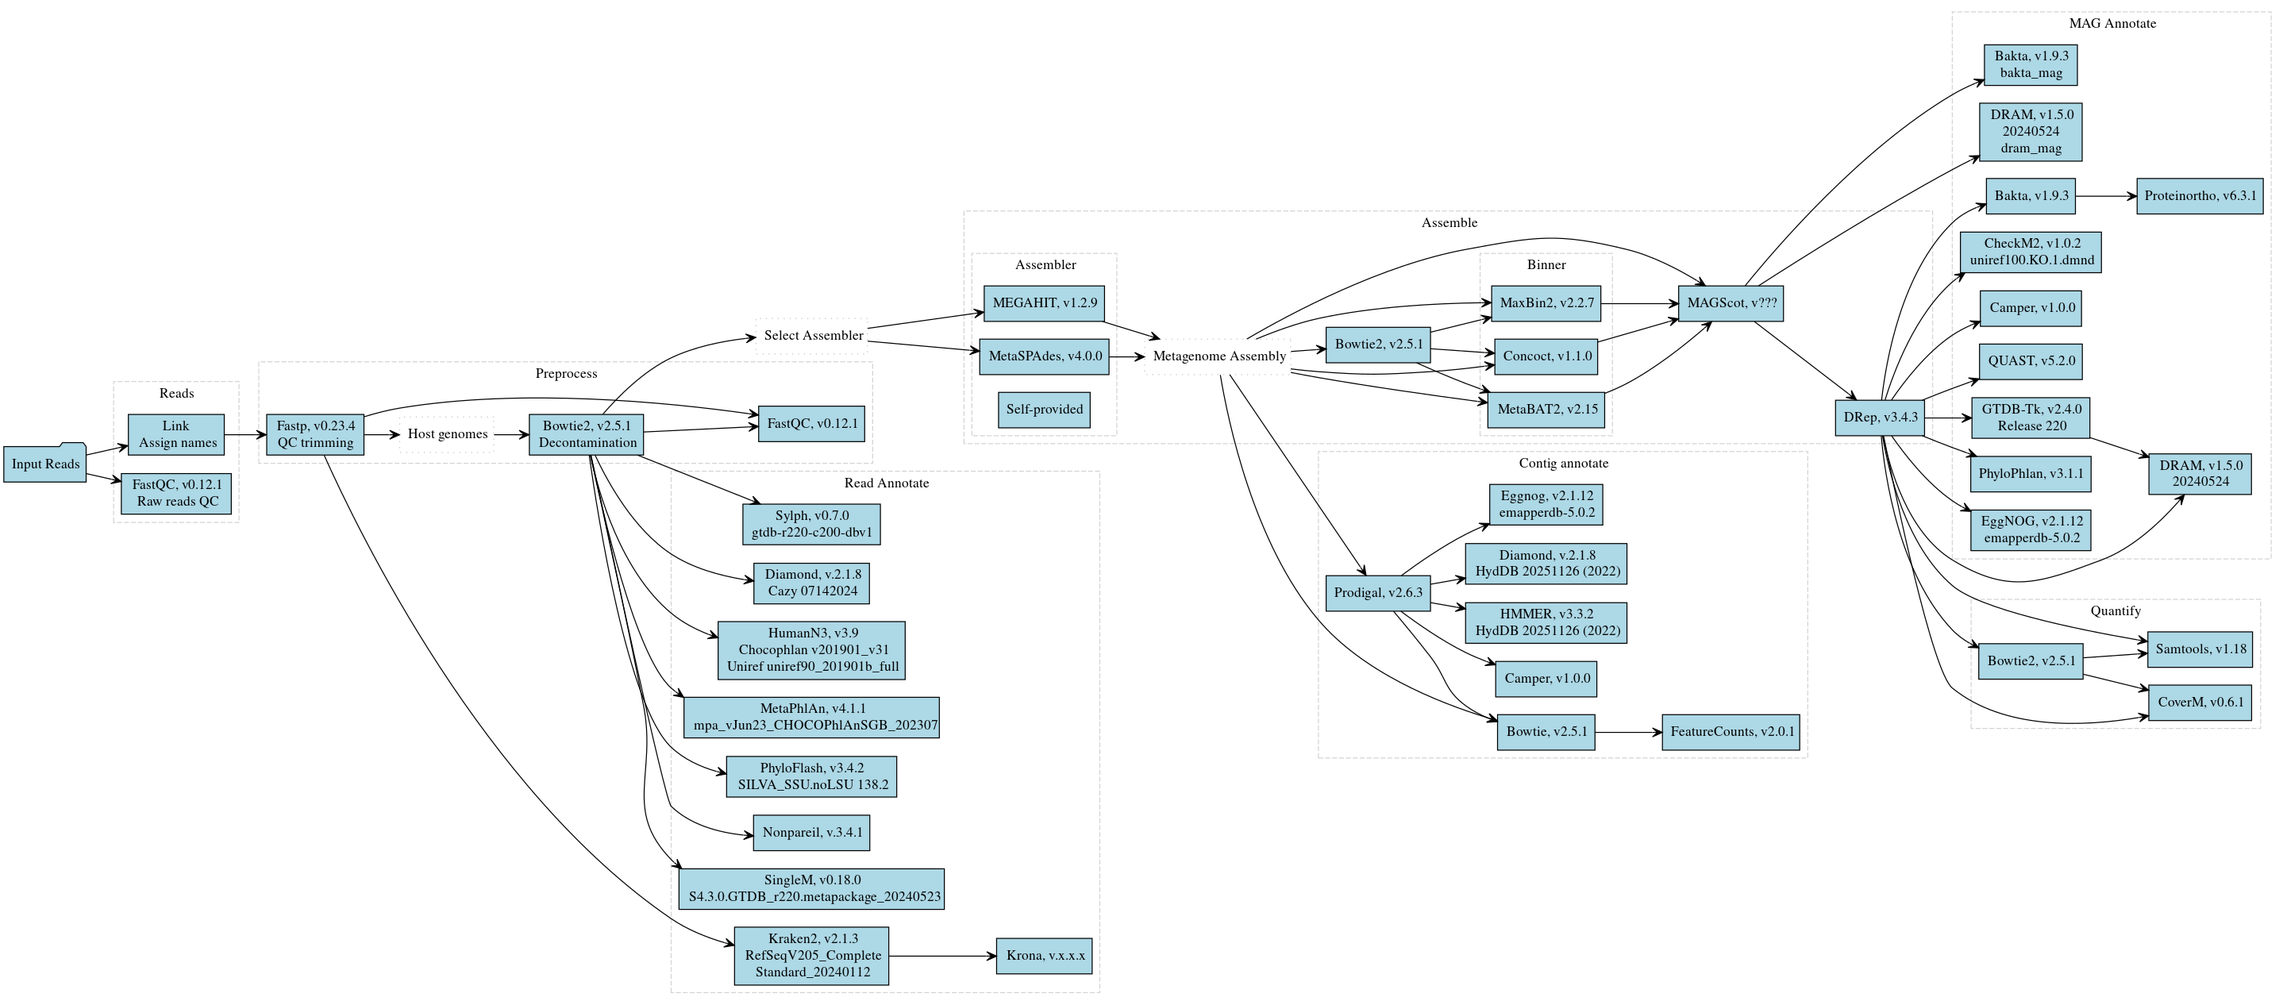
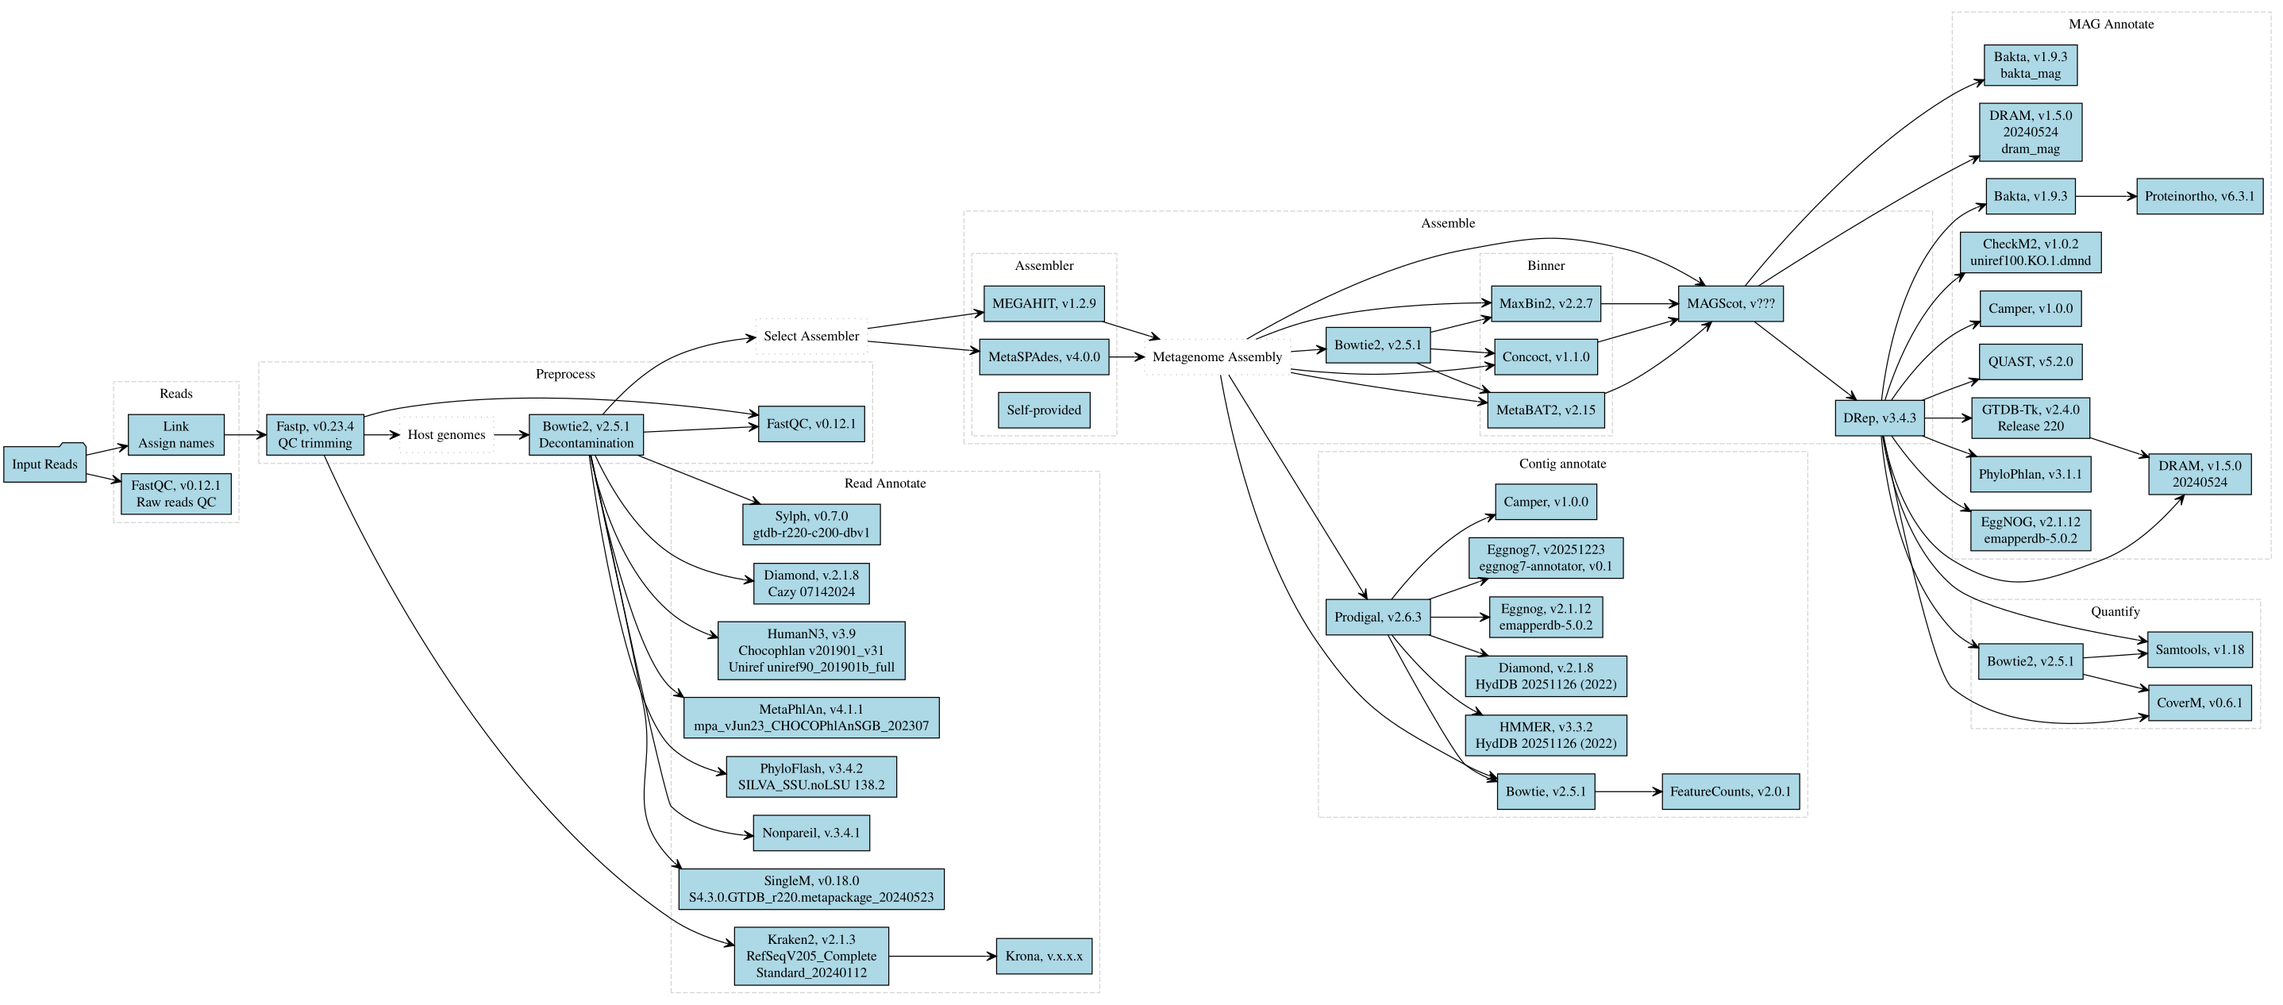
flowchart updated with eggnog7

diff --git a/pipeline_diagram.html b/pipeline_diagram.html
@@ -46,7 +46,7 @@
 </g>
 <g id="clust8" class="cluster">
 <title>cluster_contig_annotate</title>
-<polygon fill="none" stroke="#d3d3d3" stroke-dasharray="5,2" points="1333.7794,-246 1333.7794,-557 1830.2388,-557 1830.2388,-246 1333.7794,-246"/>
+<polygon fill="none" stroke="#d3d3d3" stroke-dasharray="5,2" points="1333.7794,-186 1333.7794,-557 1830.2388,-557 1830.2388,-186 1333.7794,-186"/>
 <text text-anchor="middle" x="1582.0091" y="-540.4" font-family="Times,serif" font-size="14.00" fill="#000000">Contig annotate</text>
 </g>
 <g id="clust9" class="cluster">
@@ -210,7 +210,7 @@
 <polygon fill="#000000" stroke="#000000" points="760.9946,-425.5802 751.748,-431.4751 756.0469,-426.3012 751.0991,-427.0222 751.0991,-427.0222 751.0991,-427.0222 756.0469,-426.3012 750.4502,-422.5692 760.9946,-425.5802 760.9946,-425.5802"/>
 </g>
 <!-- ass_assembler_rep -->
-<g id="node47" class="node">
+<g id="node48" class="node">
 <title>ass_assembler_rep</title>
 <polygon fill="none" stroke="#c0c0c0" stroke-dasharray="1,5" points="876.1262,-692 762.9758,-692 762.9758,-656 876.1262,-656 876.1262,-692"/>
 <text text-anchor="middle" x="819.551" y="-669.8" font-family="Times,serif" font-size="14.00" fill="#000000">Select Assembler</text>
@@ -242,7 +242,7 @@
 <polygon fill="#000000" stroke="#000000" points="741.116,-55.9204 732.6591,-62.9012 736.2934,-57.2406 731.4709,-58.5609 731.4709,-58.5609 731.4709,-58.5609 736.2934,-57.2406 730.2826,-54.2206 741.116,-55.9204 741.116,-55.9204"/>
 </g>
 <!-- pre_host -->
-<g id="node46" class="node">
+<g id="node47" class="node">
 <title>pre_host</title>
 <polygon fill="none" stroke="#c0c0c0" stroke-dasharray="1,5" points="496.9293,-592 401.5161,-592 401.5161,-556 496.9293,-556 496.9293,-592"/>
 <text text-anchor="middle" x="449.2227" y="-569.8" font-family="Times,serif" font-size="14.00" fill="#000000">Host genomes</text>
@@ -426,7 +426,7 @@
 <polygon fill="#000000" stroke="#000000" points="2001.5807,-552.147 1993.6347,-559.7043 1996.8627,-553.8026 1992.1447,-555.4582 1992.1447,-555.4582 1992.1447,-555.4582 1996.8627,-553.8026 1990.6547,-551.212 2001.5807,-552.147 2001.5807,-552.147"/>
 </g>
 <!-- quantify_bowtie2 -->
-<g id="node43" class="node">
+<g id="node44" class="node">
 <title>quantify_bowtie2</title>
 <polygon fill="#add8e6" stroke="#000000" points="2109.6016,-362 2003.7218,-362 2003.7218,-326 2109.6016,-326 2109.6016,-362"/>
 <text text-anchor="middle" x="2056.6617" y="-339.8" font-family="Times,serif" font-size="14.00" fill="#000000">Bowtie2, v2.5.1</text>
@@ -438,7 +438,7 @@
 <polygon fill="#000000" stroke="#000000" points="2003.7342,-357.7502 1996.8782,-366.3086 1999.2821,-360.0259 1994.83,-362.3017 1994.83,-362.3017 1994.83,-362.3017 1999.2821,-360.0259 1992.7818,-358.2948 2003.7342,-357.7502 2003.7342,-357.7502"/>
 </g>
 <!-- quantify_coverm -->
-<g id="node44" class="node">
+<g id="node45" class="node">
 <title>quantify_coverm</title>
 <polygon fill="#add8e6" stroke="#000000" points="2280.5789,-320 2176.2649,-320 2176.2649,-284 2280.5789,-284 2280.5789,-320"/>
 <text text-anchor="middle" x="2228.4219" y="-297.8" font-family="Times,serif" font-size="14.00" fill="#000000">CoverM, v0.6.1</text>
@@ -450,7 +450,7 @@
 <polygon fill="#000000" stroke="#000000" points="2176.1074,-288.894 2165.4692,-291.5544 2171.1863,-288.0096 2166.2651,-287.1253 2166.2651,-287.1253 2166.2651,-287.1253 2171.1863,-288.0096 2167.061,-282.6962 2176.1074,-288.894 2176.1074,-288.894"/>
 </g>
 <!-- quantify_samtools -->
-<g id="node45" class="node">
+<g id="node46" class="node">
 <title>quantify_samtools</title>
 <polygon fill="#add8e6" stroke="#000000" points="2281.5362,-374 2175.3076,-374 2175.3076,-338 2281.5362,-338 2281.5362,-374"/>
 <text text-anchor="middle" x="2228.4219" y="-351.8" font-family="Times,serif" font-size="14.00" fill="#000000">Samtools, v1.18</text>
@@ -507,7 +507,7 @@
 <text text-anchor="middle" x="1055.6559" y="-702.8" font-family="Times,serif" font-size="14.00" fill="#000000">MEGAHIT, v1.2.9</text>
 </g>
 <!-- ass_assembly -->
-<g id="node48" class="node">
+<g id="node49" class="node">
 <title>ass_assembly</title>
 <polygon fill="none" stroke="#c0c0c0" stroke-dasharray="1,5" points="1305.5679,-671 1157.4151,-671 1157.4151,-635 1305.5679,-635 1305.5679,-671"/>
 <text text-anchor="middle" x="1231.4915" y="-648.8" font-family="Times,serif" font-size="14.00" fill="#000000">Metagenome Assembly</text>
@@ -563,83 +563,96 @@
 <!-- contig_annotate_prodigal -->
 <g id="node36" class="node">
 <title>contig_annotate_prodigal</title>
-<polygon fill="#add8e6" stroke="#000000" points="1447.4388,-431 1341.559,-431 1341.559,-395 1447.4388,-395 1447.4388,-431"/>
-<text text-anchor="middle" x="1394.4989" y="-408.8" font-family="Times,serif" font-size="14.00" fill="#000000">Prodigal, v2.6.3</text>
+<polygon fill="#add8e6" stroke="#000000" points="1447.4388,-407 1341.559,-407 1341.559,-371 1447.4388,-371 1447.4388,-407"/>
+<text text-anchor="middle" x="1394.4989" y="-384.8" font-family="Times,serif" font-size="14.00" fill="#000000">Prodigal, v2.6.3</text>
 </g>
 <!-- contig_annotate_eggnog -->
 <g id="node37" class="node">
 <title>contig_annotate_eggnog</title>
-<polygon fill="#add8e6" stroke="#000000" points="1622.2601,-523.6019 1507.5477,-523.6019 1507.5477,-482.3981 1622.2601,-482.3981 1622.2601,-523.6019"/>
-<text text-anchor="middle" x="1564.9039" y="-507.2" font-family="Times,serif" font-size="14.00" fill="#000000">Eggnog, v2.1.12 </text>
-<text text-anchor="middle" x="1564.9039" y="-490.4" font-family="Times,serif" font-size="14.00" fill="#000000"> emapperdb&#45;5.0.2</text>
+<polygon fill="#add8e6" stroke="#000000" points="1622.2601,-409.6019 1507.5477,-409.6019 1507.5477,-368.3981 1622.2601,-368.3981 1622.2601,-409.6019"/>
+<text text-anchor="middle" x="1564.9039" y="-393.2" font-family="Times,serif" font-size="14.00" fill="#000000">Eggnog, v2.1.12 </text>
+<text text-anchor="middle" x="1564.9039" y="-376.4" font-family="Times,serif" font-size="14.00" fill="#000000"> emapperdb&#45;5.0.2</text>
 </g>
 <!-- contig_annotate_prodigal&#45;&gt;contig_annotate_eggnog -->
 <g id="edge50" class="edge">
 <title>contig_annotate_prodigal&#45;&gt;contig_annotate_eggnog</title>
-<path fill="none" stroke="#000000" d="M1417.9966,-431.2104C1435.3387,-444.0613 1459.8826,-461.0491 1483.2184,-473 1488.0088,-475.4533 1493.0479,-477.8048 1498.1736,-480.0353"/>
-<polygon fill="#000000" stroke="#000000" points="1507.4584,-483.9153 1496.4965,-484.2115 1502.845,-481.9874 1498.2317,-480.0595 1498.2317,-480.0595 1498.2317,-480.0595 1502.845,-481.9874 1499.9668,-475.9074 1507.4584,-483.9153 1507.4584,-483.9153"/>
+<path fill="none" stroke="#000000" d="M1447.482,-389C1463.2592,-389 1480.7648,-389 1497.3392,-389"/>
+<polygon fill="#000000" stroke="#000000" points="1507.515,-389 1497.5151,-393.5001 1502.515,-389 1497.515,-389.0001 1497.515,-389.0001 1497.515,-389.0001 1502.515,-389 1497.515,-384.5001 1507.515,-389 1507.515,-389"/>
+</g>
+<!-- contig_annotate_eggnog7 -->
+<g id="node38" class="node">
+<title>contig_annotate_eggnog7</title>
+<polygon fill="#add8e6" stroke="#000000" points="1643.1503,-469.6019 1486.6575,-469.6019 1486.6575,-428.3981 1643.1503,-428.3981 1643.1503,-469.6019"/>
+<text text-anchor="middle" x="1564.9039" y="-453.2" font-family="Times,serif" font-size="14.00" fill="#000000">Eggnog7, v20251223 </text>
+<text text-anchor="middle" x="1564.9039" y="-436.4" font-family="Times,serif" font-size="14.00" fill="#000000"> eggnog7&#45;annotator, v0.1</text>
+</g>
+<!-- contig_annotate_prodigal&#45;&gt;contig_annotate_eggnog7 -->
+<g id="edge51" class="edge">
+<title>contig_annotate_prodigal&#45;&gt;contig_annotate_eggnog7</title>
+<path fill="none" stroke="#000000" d="M1445.626,-407.002C1461.6065,-412.6287 1479.5017,-418.9297 1496.4726,-424.9052"/>
+<polygon fill="#000000" stroke="#000000" points="1506.3366,-428.3783 1495.4096,-429.3016 1501.6204,-426.7177 1496.9042,-425.0571 1496.9042,-425.0571 1496.9042,-425.0571 1501.6204,-426.7177 1498.3987,-420.8125 1506.3366,-428.3783 1506.3366,-428.3783"/>
 </g>
 <!-- contig_annotate_bowtie -->
-<g id="node38" class="node">
+<g id="node39" class="node">
 <title>contig_annotate_bowtie</title>
-<polygon fill="#add8e6" stroke="#000000" points="1614.3439,-290 1515.4639,-290 1515.4639,-254 1614.3439,-254 1614.3439,-290"/>
-<text text-anchor="middle" x="1564.9039" y="-267.8" font-family="Times,serif" font-size="14.00" fill="#000000">Bowtie, v2.5.1</text>
+<polygon fill="#add8e6" stroke="#000000" points="1614.3439,-230 1515.4639,-230 1515.4639,-194 1614.3439,-194 1614.3439,-230"/>
+<text text-anchor="middle" x="1564.9039" y="-207.8" font-family="Times,serif" font-size="14.00" fill="#000000">Bowtie, v2.5.1</text>
 </g>
 <!-- contig_annotate_prodigal&#45;&gt;contig_annotate_bowtie -->
-<g id="edge51" class="edge">
+<g id="edge52" class="edge">
 <title>contig_annotate_prodigal&#45;&gt;contig_annotate_bowtie</title>
-<path fill="none" stroke="#000000" d="M1410.0472,-394.7722C1420.7205,-382.1041 1435.0928,-364.7358 1447.2184,-349 1463.9324,-327.3097 1461.1407,-315.1989 1483.2184,-299 1490.0562,-293.983 1497.8793,-289.8632 1505.9143,-286.4895"/>
-<polygon fill="#000000" stroke="#000000" points="1515.3976,-282.8627 1507.6648,-290.638 1510.7275,-284.6488 1506.0573,-286.4349 1506.0573,-286.4349 1506.0573,-286.4349 1510.7275,-284.6488 1504.4499,-282.2317 1515.3976,-282.8627 1515.3976,-282.8627"/>
+<path fill="none" stroke="#000000" d="M1404.3012,-370.8366C1424.8604,-332.9872 1471.5538,-248.3933 1483.2184,-239 1489.9074,-233.6134 1497.7126,-229.2845 1505.7951,-225.8098"/>
+<polygon fill="#000000" stroke="#000000" points="1515.3603,-222.111 1507.6564,-229.9148 1510.6968,-223.9144 1506.0334,-225.7177 1506.0334,-225.7177 1506.0334,-225.7177 1510.6968,-223.9144 1504.4103,-221.5206 1515.3603,-222.111 1515.3603,-222.111"/>
 </g>
 <!-- contig_annotate_camper -->
-<g id="node39" class="node">
+<g id="node40" class="node">
 <title>contig_annotate_camper</title>
-<polygon fill="#add8e6" stroke="#000000" points="1616.2214,-344 1513.5864,-344 1513.5864,-308 1616.2214,-308 1616.2214,-344"/>
-<text text-anchor="middle" x="1564.9039" y="-321.8" font-family="Times,serif" font-size="14.00" fill="#000000">Camper, v1.0.0</text>
+<polygon fill="#add8e6" stroke="#000000" points="1616.2214,-524 1513.5864,-524 1513.5864,-488 1616.2214,-488 1616.2214,-524"/>
+<text text-anchor="middle" x="1564.9039" y="-501.8" font-family="Times,serif" font-size="14.00" fill="#000000">Camper, v1.0.0</text>
 </g>
 <!-- contig_annotate_prodigal&#45;&gt;contig_annotate_camper -->
-<g id="edge52" class="edge">
+<g id="edge53" class="edge">
 <title>contig_annotate_prodigal&#45;&gt;contig_annotate_camper</title>
-<path fill="none" stroke="#000000" d="M1417.5134,-394.8326C1434.8178,-381.8359 1459.5232,-364.6494 1483.2184,-353 1489.7611,-349.7834 1496.7786,-346.8118 1503.8519,-344.1087"/>
-<polygon fill="#000000" stroke="#000000" points="1513.4926,-340.5913 1505.6407,-348.2463 1508.7955,-342.3051 1504.0983,-344.0189 1504.0983,-344.0189 1504.0983,-344.0189 1508.7955,-342.3051 1502.556,-339.7914 1513.4926,-340.5913 1513.4926,-340.5913"/>
+<path fill="none" stroke="#000000" d="M1407.927,-407.0591C1423.8231,-427.2561 1452.0949,-459.6646 1483.2184,-479 1489.5858,-482.9557 1496.596,-486.3981 1503.7524,-489.3765"/>
+<polygon fill="#000000" stroke="#000000" points="1513.5549,-493.1549 1502.6056,-493.7572 1508.8895,-491.3566 1504.2241,-489.5583 1504.2241,-489.5583 1504.2241,-489.5583 1508.8895,-491.3566 1505.8426,-485.3594 1513.5549,-493.1549 1513.5549,-493.1549"/>
 </g>
 <!-- contig_annotate_hmmer -->
-<g id="node40" class="node">
+<g id="node41" class="node">
 <title>contig_annotate_hmmer</title>
-<polygon fill="#add8e6" stroke="#000000" points="1646.7753,-403.6019 1483.0325,-403.6019 1483.0325,-362.3981 1646.7753,-362.3981 1646.7753,-403.6019"/>
-<text text-anchor="middle" x="1564.9039" y="-387.2" font-family="Times,serif" font-size="14.00" fill="#000000">HMMER, v3.3.2 </text>
-<text text-anchor="middle" x="1564.9039" y="-370.4" font-family="Times,serif" font-size="14.00" fill="#000000"> HydDB 20251126 (2022)</text>
+<polygon fill="#add8e6" stroke="#000000" points="1646.7753,-289.6019 1483.0325,-289.6019 1483.0325,-248.3981 1646.7753,-248.3981 1646.7753,-289.6019"/>
+<text text-anchor="middle" x="1564.9039" y="-273.2" font-family="Times,serif" font-size="14.00" fill="#000000">HMMER, v3.3.2 </text>
+<text text-anchor="middle" x="1564.9039" y="-256.4" font-family="Times,serif" font-size="14.00" fill="#000000"> HydDB 20251126 (2022)</text>
 </g>
 <!-- contig_annotate_prodigal&#45;&gt;contig_annotate_hmmer -->
-<g id="edge53" class="edge">
+<g id="edge54" class="edge">
 <title>contig_annotate_prodigal&#45;&gt;contig_annotate_hmmer</title>
-<path fill="none" stroke="#000000" d="M1447.482,-403.6723C1455.7164,-402.2226 1464.4215,-400.69 1473.2194,-399.1412"/>
-<polygon fill="#000000" stroke="#000000" points="1483.1718,-397.389 1474.1035,-403.5548 1478.2475,-398.256 1473.3232,-399.123 1473.3232,-399.123 1473.3232,-399.123 1478.2475,-398.256 1472.543,-394.6911 1483.1718,-397.389 1483.1718,-397.389"/>
+<path fill="none" stroke="#000000" d="M1408.3321,-370.7636C1424.3859,-350.7105 1452.6,-318.7235 1483.2184,-299 1485.8022,-297.3356 1488.4912,-295.7463 1491.2523,-294.2306"/>
+<polygon fill="#000000" stroke="#000000" points="1500.2757,-289.6389 1493.4041,-298.1848 1495.8194,-291.9066 1491.3632,-294.1742 1491.3632,-294.1742 1491.3632,-294.1742 1495.8194,-291.9066 1489.3223,-290.1636 1500.2757,-289.6389 1500.2757,-289.6389"/>
 </g>
 <!-- contig_annotate_diamond -->
-<g id="node41" class="node">
+<g id="node42" class="node">
 <title>contig_annotate_diamond</title>
-<polygon fill="#add8e6" stroke="#000000" points="1646.7753,-463.6019 1483.0325,-463.6019 1483.0325,-422.3981 1646.7753,-422.3981 1646.7753,-463.6019"/>
-<text text-anchor="middle" x="1564.9039" y="-447.2" font-family="Times,serif" font-size="14.00" fill="#000000">Diamond, v.2.1.8 </text>
-<text text-anchor="middle" x="1564.9039" y="-430.4" font-family="Times,serif" font-size="14.00" fill="#000000"> HydDB 20251126 (2022)</text>
+<polygon fill="#add8e6" stroke="#000000" points="1646.7753,-349.6019 1483.0325,-349.6019 1483.0325,-308.3981 1646.7753,-308.3981 1646.7753,-349.6019"/>
+<text text-anchor="middle" x="1564.9039" y="-333.2" font-family="Times,serif" font-size="14.00" fill="#000000">Diamond, v.2.1.8 </text>
+<text text-anchor="middle" x="1564.9039" y="-316.4" font-family="Times,serif" font-size="14.00" fill="#000000"> HydDB 20251126 (2022)</text>
 </g>
 <!-- contig_annotate_prodigal&#45;&gt;contig_annotate_diamond -->
-<g id="edge54" class="edge">
+<g id="edge55" class="edge">
 <title>contig_annotate_prodigal&#45;&gt;contig_annotate_diamond</title>
-<path fill="none" stroke="#000000" d="M1447.482,-422.3277C1455.7164,-423.7774 1464.4215,-425.31 1473.2194,-426.8588"/>
-<polygon fill="#000000" stroke="#000000" points="1483.1718,-428.611 1472.543,-431.3089 1478.2475,-427.744 1473.3232,-426.877 1473.3232,-426.877 1473.3232,-426.877 1478.2475,-427.744 1474.1035,-422.4452 1483.1718,-428.611 1483.1718,-428.611"/>
+<path fill="none" stroke="#000000" d="M1445.626,-370.998C1461.6065,-365.3713 1479.5017,-359.0703 1496.4726,-353.0948"/>
+<polygon fill="#000000" stroke="#000000" points="1506.3366,-349.6217 1498.3987,-357.1875 1501.6204,-351.2823 1496.9042,-352.9429 1496.9042,-352.9429 1496.9042,-352.9429 1501.6204,-351.2823 1495.4096,-348.6984 1506.3366,-349.6217 1506.3366,-349.6217"/>
 </g>
 <!-- contig_annotate_feature -->
-<g id="node42" class="node">
+<g id="node43" class="node">
 <title>contig_annotate_feature</title>
-<polygon fill="#add8e6" stroke="#000000" points="1822.0639,-290 1682.7643,-290 1682.7643,-254 1822.0639,-254 1822.0639,-290"/>
-<text text-anchor="middle" x="1752.4141" y="-267.8" font-family="Times,serif" font-size="14.00" fill="#000000">FeatureCounts, v2.0.1</text>
+<polygon fill="#add8e6" stroke="#000000" points="1822.0639,-230 1682.7643,-230 1682.7643,-194 1822.0639,-194 1822.0639,-230"/>
+<text text-anchor="middle" x="1752.4141" y="-207.8" font-family="Times,serif" font-size="14.00" fill="#000000">FeatureCounts, v2.0.1</text>
 </g>
 <!-- contig_annotate_bowtie&#45;&gt;contig_annotate_feature -->
-<g id="edge56" class="edge">
+<g id="edge57" class="edge">
 <title>contig_annotate_bowtie&#45;&gt;contig_annotate_feature</title>
-<path fill="none" stroke="#000000" d="M1614.17,-272C1632.0034,-272 1652.6326,-272 1672.425,-272"/>
-<polygon fill="#000000" stroke="#000000" points="1682.6797,-272 1672.6797,-276.5001 1677.6797,-272 1672.6797,-272.0001 1672.6797,-272.0001 1672.6797,-272.0001 1677.6797,-272 1672.6796,-267.5001 1682.6797,-272 1682.6797,-272"/>
+<path fill="none" stroke="#000000" d="M1614.17,-212C1632.0034,-212 1652.6326,-212 1672.425,-212"/>
+<polygon fill="#000000" stroke="#000000" points="1682.6797,-212 1672.6797,-216.5001 1677.6797,-212 1672.6797,-212.0001 1672.6797,-212.0001 1672.6797,-212.0001 1677.6797,-212 1672.6796,-207.5001 1682.6797,-212 1682.6797,-212"/>
 </g>
 <!-- quantify_bowtie2&#45;&gt;quantify_coverm -->
 <g id="edge34" class="edge">
@@ -660,13 +673,13 @@
 <polygon fill="#000000" stroke="#000000" points="532.7533,-574 522.7533,-578.5001 527.7533,-574 522.7533,-574.0001 522.7533,-574.0001 522.7533,-574.0001 527.7533,-574 522.7532,-569.5001 532.7533,-574 532.7533,-574"/>
 </g>
 <!-- ass_assembler_rep&#45;&gt;ass_megahit -->
-<g id="edge57" class="edge">
+<g id="edge58" class="edge">
 <title>ass_assembler_rep&#45;&gt;ass_megahit</title>
 <path fill="none" stroke="#000000" d="M876.4045,-681.9463C908.8186,-686.4768 949.7412,-692.1965 984.2992,-697.0266"/>
 <polygon fill="#000000" stroke="#000000" points="994.3328,-698.429 983.8061,-701.5013 989.3809,-697.7368 984.4291,-697.0447 984.4291,-697.0447 984.4291,-697.0447 989.3809,-697.7368 985.052,-692.588 994.3328,-698.429 994.3328,-698.429"/>
 </g>
 <!-- ass_assembler_rep&#45;&gt;ass_metaspades -->
-<g id="edge58" class="edge">
+<g id="edge59" class="edge">
 <title>ass_assembler_rep&#45;&gt;ass_metaspades</title>
 <path fill="none" stroke="#000000" d="M876.4045,-668.9433C907.4429,-666.1826 946.2829,-662.728 979.8659,-659.741"/>
 <polygon fill="#000000" stroke="#000000" points="990.105,-658.8303 980.543,-664.1987 985.1246,-659.2733 980.1443,-659.7164 980.1443,-659.7164 980.1443,-659.7164 985.1246,-659.2733 979.7456,-655.2341 990.105,-658.8303 990.105,-658.8303"/>
@@ -704,14 +717,14 @@
 <!-- ass_assembly&#45;&gt;contig_annotate_prodigal -->
 <g id="edge49" class="edge">
 <title>ass_assembly&#45;&gt;contig_annotate_prodigal</title>
-<path fill="none" stroke="#000000" d="M1243.7435,-634.961C1272.1824,-593.0897 1342.7939,-489.1267 1376.2989,-439.7963"/>
-<polygon fill="#000000" stroke="#000000" points="1382.1047,-431.2483 1380.2086,-442.0491 1379.2954,-435.3845 1376.4861,-439.5207 1376.4861,-439.5207 1376.4861,-439.5207 1379.2954,-435.3845 1372.7635,-436.9923 1382.1047,-431.2483 1382.1047,-431.2483"/>
+<path fill="none" stroke="#000000" d="M1242.6957,-634.8542C1270.846,-589.2631 1344.6553,-469.7247 1377.8751,-415.9232"/>
+<polygon fill="#000000" stroke="#000000" points="1383.2163,-407.2728 1381.7915,-418.1457 1380.5894,-411.5271 1377.9626,-415.7815 1377.9626,-415.7815 1377.9626,-415.7815 1380.5894,-411.5271 1374.1336,-413.4173 1383.2163,-407.2728 1383.2163,-407.2728"/>
 </g>
 <!-- ass_assembly&#45;&gt;contig_annotate_bowtie -->
-<g id="edge55" class="edge">
+<g id="edge56" class="edge">
 <title>ass_assembly&#45;&gt;contig_annotate_bowtie</title>
-<path fill="none" stroke="#000000" d="M1234.2038,-634.6619C1241.9212,-588.101 1267.8568,-463.5206 1333.7794,-386 1378.4357,-333.4872 1453.0555,-302.891 1505.3976,-286.8515"/>
-<polygon fill="#000000" stroke="#000000" points="1515.2262,-283.9297 1506.9231,-291.0927 1510.4335,-285.3545 1505.6408,-286.7793 1505.6408,-286.7793 1505.6408,-286.7793 1510.4335,-285.3545 1504.3585,-282.4658 1515.2262,-283.9297 1515.2262,-283.9297"/>
+<path fill="none" stroke="#000000" d="M1234.3793,-634.7337C1242.7227,-586.3946 1270.423,-452.6341 1333.7794,-362 1383.0638,-291.4964 1407.8906,-280.5383 1483.2184,-239 1490.2853,-235.1031 1498.008,-231.6483 1505.7947,-228.6228"/>
+<polygon fill="#000000" stroke="#000000" points="1515.2848,-225.1442 1507.4444,-232.8109 1510.5902,-226.865 1505.8957,-228.5858 1505.8957,-228.5858 1505.8957,-228.5858 1510.5902,-226.865 1504.3469,-224.3607 1515.2848,-225.1442 1515.2848,-225.1442"/>
 </g>
 </g>
 </svg>
